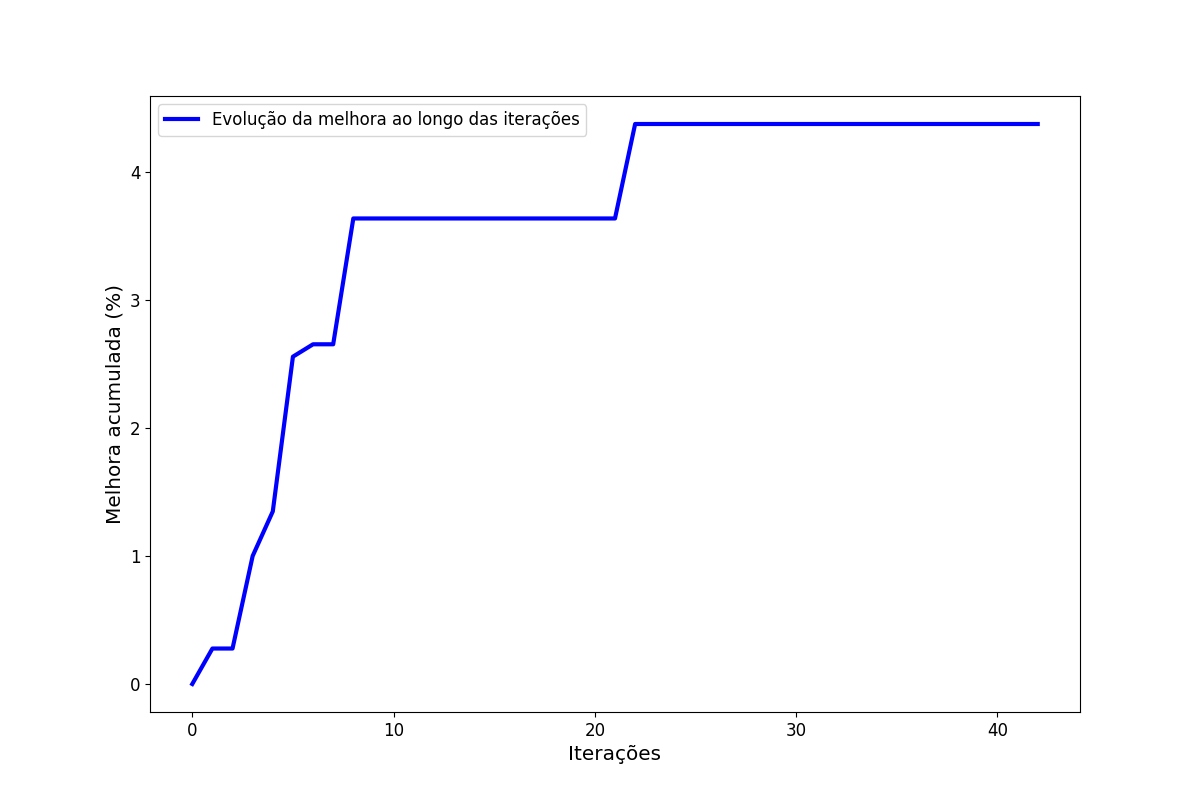
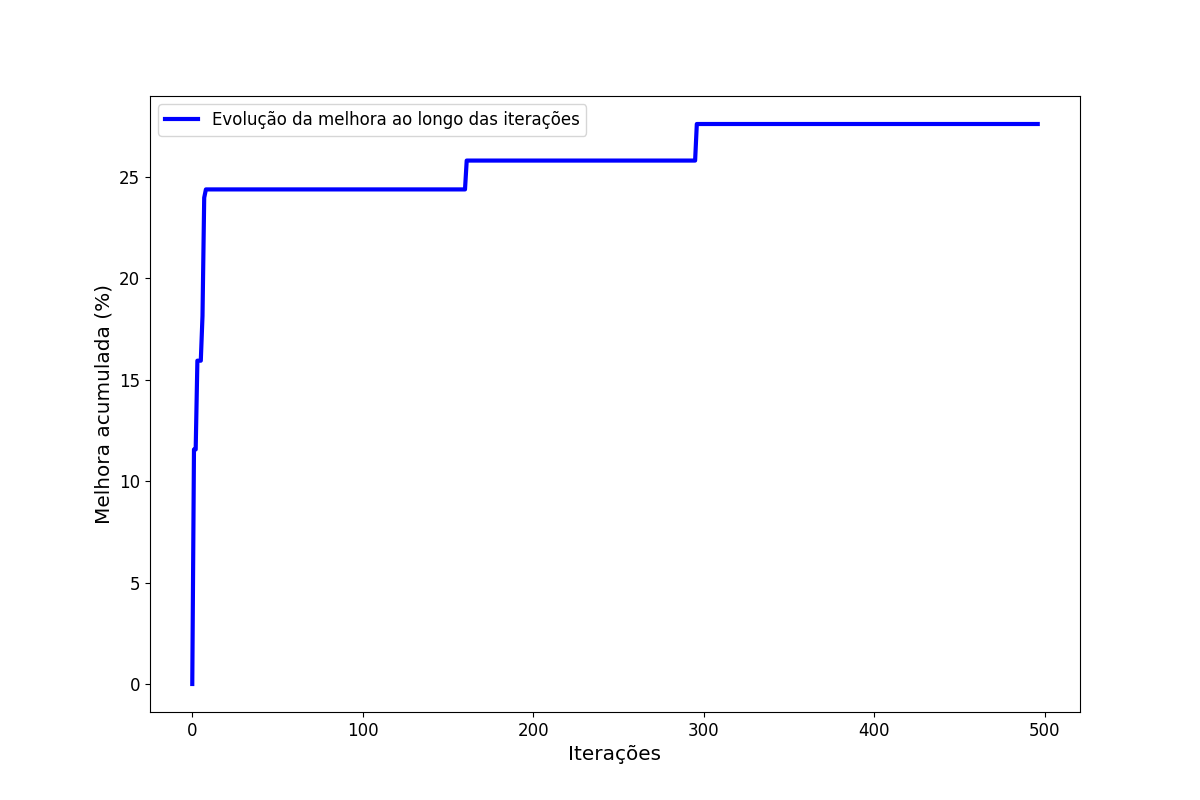
changes

diff --git a/antcolony.py b/antcolony.py
@@ -15,11 +15,11 @@ def antColony(nTrips, nVehicles, nWorkers, durations, depreciation, benefit):
   # evaporationRate = 0.9
 
   nAnts = nTrips
-  nIter = 20
-  pheromonyInfluence = 2
+  nIter = 200
+  pheromonyInfluence = 0.1
   weightInfluence = 10
-  amountPheromony = (sum(durations) * 100) / len(durations)
-  evaporationRate = 0.9
+  amountPheromony = (sum(durations) / len(durations)) * 100
+  evaporationRate = 0.8
 
   best = list
   improveAmount = []
@@ -139,6 +139,6 @@ def antColony(nTrips, nVehicles, nWorkers, durations, depreciation, benefit):
   print(f'Percentual de melhora ao longo das iterações: {improvement*100}%')
   grafico_linha(range(it),media, lucros, 'lucro_total_iteracoes', improvement*100)
   grafico_improvement(range(it), improveAmount, 'improvement_percentage')
-  print(improveAmount)
+  # print(improveAmount)
   return best_final, improvement*100
   #print(pheromony)

diff --git a/randomData.py b/randomData.py
@@ -1,9 +1,9 @@
 import json
 from random import randint
 
-nVehicles = 15
-nWorkers = 20
-nTrips = 200
+nVehicles = 3
+nWorkers = 4
+nTrips = 10
 upperBoundBenefit = 70
 lowerBoundBenefit = 30
 upperBoundDepretiation = 30
